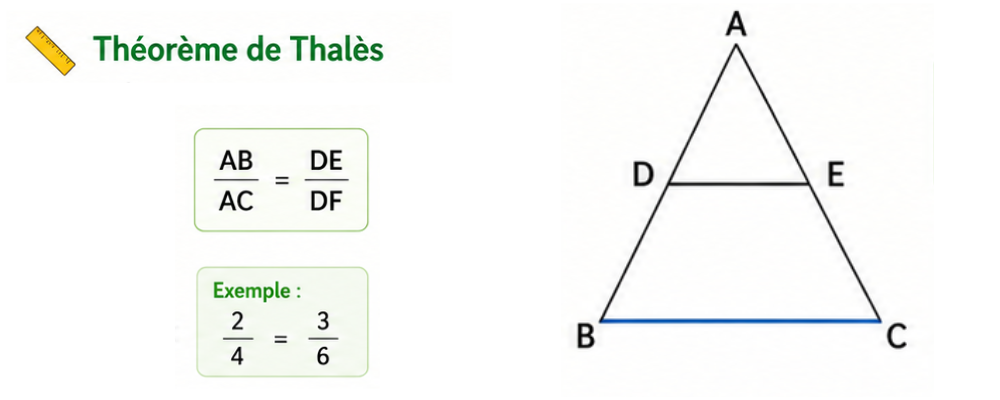
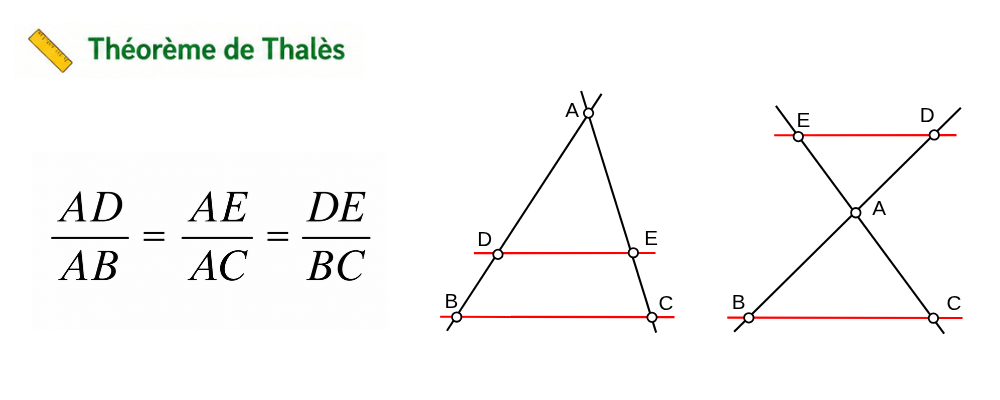
Mise à jour du site

diff --git a/data/revisions/maths.ts b/data/revisions/maths.ts
@@ -12,7 +12,7 @@ export const mathsFiches = [
     content: {
 
       definition:
-        "Dans un triangle rectangle, le carré de l’hypoténuse est égal à la somme des carrés des deux autres côtés.",
+        " Dans un triangle rectangle, le carré de la longueur de l’hypoténuse (ou côté opposé à l'angle droit) est égal à la somme des carrés des longueurs des deux autres côtés",
 
       formule:
         "AB² + BC² = AC²",
@@ -24,50 +24,27 @@ export const mathsFiches = [
   },
 
   {
-    slug: "thales",
+  slug: "thales",
 
-    title: "Théorème de Thalès",
+  title: "Théorème de Thalès",
 
-    emoji: "📏",
+  emoji: "📏",
 
-    image: "/images/revisions/maths/thales.png",
+  image: "/images/revisions/maths/thales.png",
 
-    content: {
+  content: {
 
-      definition:
-        "Dans des triangles en configuration de Thalès, les longueurs sont proportionnelles.",
+    definition:
+  "<strong><u>Théorème de Thalès</u></strong> - Soit un triangle ABC, et deux points D et E, D sur la droite (AB) et E sur la droite (AC), de sorte que la droite (DE) soit parallèle à la droite (BC).Alors :<br /><div style='text-align:center'>AD/AB = AE/AC = DE/BC</div><br /><br /><strong><u>Réciproque du théorème de Thalès</u></strong> - Dans un triangle ABC, supposons donnés des points D et E appartenant respectivement aux segments [AB] et [AC]. Si les rapports AD/AB et AE/AC sont égaux, alors les droites (DE) et (BC) sont parallèles.",
 
-      formule:
-        "AB / AC = DE / DF",
+    formule:
+      "AD / AB = AE / AC = DE / BC",
 
-      exemple:
-        "2 / 4 = 3 / 6",
+    exemple:
+      "2 / 4 = 2 / 4 = 3 / 6",
 
-    },
   },
-
-  {
-    slug: "fractions",
-
-    title: "Fractions",
-
-    emoji: "➗",
-
-    image: "/images/revisions/maths/fractions.png",
-
-    content: {
-
-      definition:
-        "Une fraction représente une partie d’un tout.",
-
-      formule:
-        "a / b",
-
-      exemple:
-        "1/2 + 1/2 = 1",
-
-    },
-  },
+},
 
   {
     slug: "pourcentages",

diff --git a/app/[locale]/revisions/maths/[slug]/page.tsx b/app/[locale]/revisions/maths/[slug]/page.tsx
@@ -54,9 +54,12 @@ export default async function Page({
             📘 Définition
           </h2>
 
-          <p className="text-lg leading-8 text-gray-700 dark:text-gray-300">
-            {fiche.content.definition}
-          </p>
+          <p
+  className="text-xl leading-8 text-gray-700 dark:text-gray-300"
+  dangerouslySetInnerHTML={{
+    __html: fiche.content.definition,
+  }}
+/>
 
         </section>
         {/* IMAGE */}
